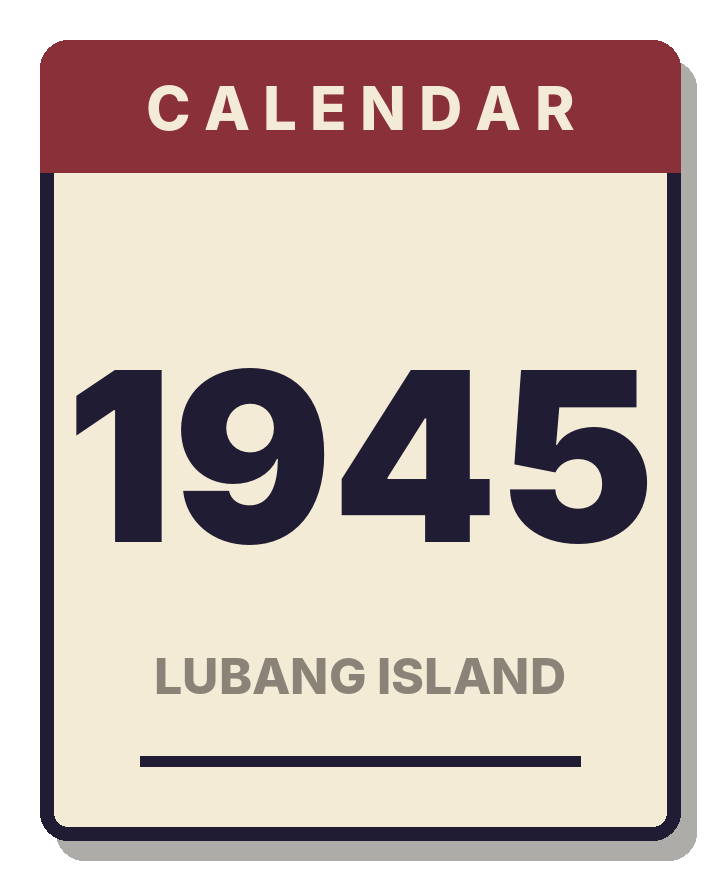
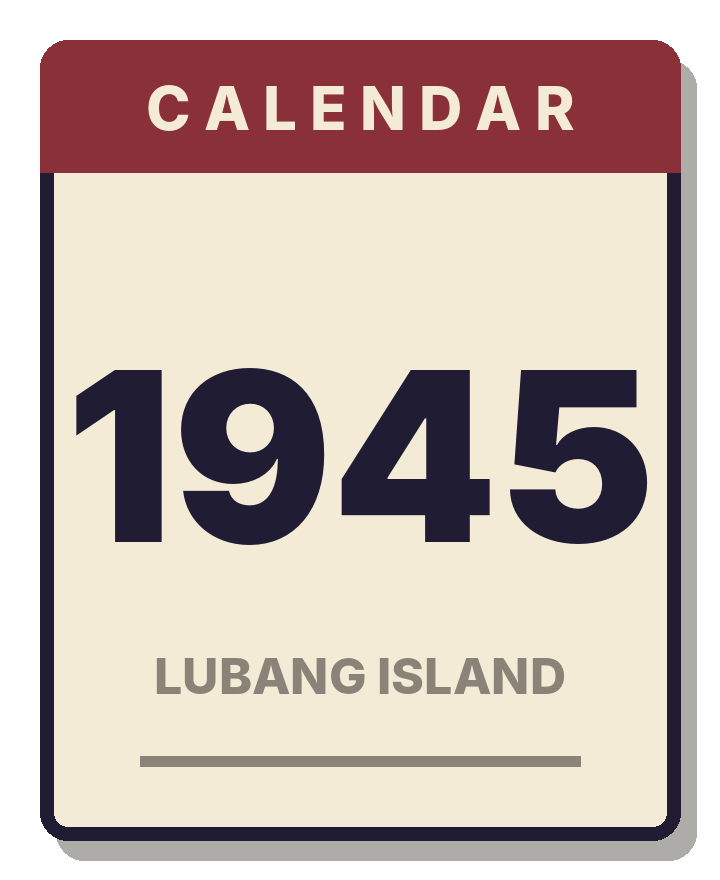
WAVE-RECORD S5 register closed in film.rs (R4: source wins): D6 S02 travelled unclamped (legs stand at k>0.97 while the group slides the final 0.204 m); D7 S03 rifle hidden (shStage has no rifle flag); D8/D9 shore trees unrotated, even=round; D10 palm frond parity odd=leaf, tips opposite colour at 8

Changed region(s): [[0.1833, 0.8591, 0.825, 0.8898]]

diff --git a/src/film.rs b/src/film.rs
@@ -708,7 +708,12 @@ fn add_palm(draws: &mut Vec<StdDraw>, pos: [f32; 3], s: f32, lean: f32, rot_y: f
     for i in 0..7 {
         let a = (i as f32 / 7.0) * std::f32::consts::TAU + 0.4;
         let (sa, ca) = a.sin_cos();
-        let col = if i % 2 == 0 { leaf } else { leaf2 };
+        // Source (shots.ts palm): frond = i%2 ? leaf : leaf2;
+        // tip = i%2 ? leaf2 : leaf (the OPPOSITE colour), tip
+        // sphere 8x5. Port had parity inverted, the tip sharing
+        // the frond colour at 10x6 (D10).
+        let col = if i % 2 == 1 { leaf } else { leaf2 };
+        let tip_col = if i % 2 == 1 { leaf2 } else { leaf };
         let frond_model = math::mul(
             &math::mul(&base, &t3(sa * 1.0, top_y + 0.1 - (i % 3) as f32 * 0.07, ca * 1.0)),
             &math::mul(&math::rotate_y(a), &math::scale(0.17, 0.05, 1.2)),
@@ -718,7 +723,7 @@ fn add_palm(draws: &mut Vec<StdDraw>, pos: [f32; 3], s: f32, lean: f32, rot_y: f
             &math::mul(&base, &t3(sa * 1.85, top_y - 0.28 - (i % 3) as f32 * 0.06, ca * 1.85)),
             &math::mul(&math::euler_xyz(ca * 0.5, a, -sa * 0.5), &math::scale(0.13, 0.04, 0.8)),
         );
-        add(draws, sphere_geo(1.0, 10, 6, col), tip_model, sm(0.9, 0.0), true, false);
+        add(draws, sphere_geo(1.0, 8, 5, tip_col), tip_model, sm(0.9, 0.0), true, false);
     }
     let nut = hex_lin("#6B4A2E");
     for &(nx, nz) in [(0.14f32, 0.0f32), (-0.12, 0.1), (0.0, -0.14)].iter() {
@@ -796,7 +801,7 @@ fn add_clouds(f: &mut FrameSpec, list: &[([f32; 3], f32)], eye: [f32; 3], target
             geo: g,
             model: math::identity(),
             tex: TexSrc::S(TEX_CLOUD),
-            tint: [1.0, 1.0, 1.0],
+            tint: hex_lin("#EFF4EA"), // D17: the source cloud sprite material colour (world.ts clouds); port rendered untinted
             opacity: 1.0,
             alpha_test: 0.0,
             depth_write: false,
@@ -958,7 +963,7 @@ pub(crate) fn build_sh(f: &mut FrameSpec) {
         (0.0, 13.0, 1.8), (-4.0, 11.0, 1.3), (4.5, 12.0, 1.35),
     ];
     for (i, &(x, z, s)) in trees.iter().enumerate() {
-        add_tree(&mut f.std, [x, 0.0, z], i as f32 * 1.7, s, "#3E7A34", i % 2 == 1, false);
+        add_tree(&mut f.std, [x, 0.0, z], 0.0, s, "#3E7A34", i % 2 == 0, false); // D8/D9: shore loop sets NO rotation and even i = round (shots.ts set builder); i*1.7 rotation + odd-round were the JG ring's
     }
     add_palm(&mut f.std, [-6.2, 0.0, 4.5], 1.0, 0.18, 0.0);
     add_palm(&mut f.std, [6.8, 0.0, 5.5], 0.92, -0.14, 0.0);
@@ -991,29 +996,29 @@ fn shelf_unit(f: &mut FrameSpec, w: f32, h: f32, seed: f64, model: Mat4) {
     let put = |f: &mut FrameSpec, geo: Geo, local: Mat4| {
         add(&mut f.std, geo, math::mul(&model, &local), sm(0.85, 0.0), true, true);
     };
-    put(f, box_geo(0.06, h, 0.34, frame), t3(-(w / 2.0 - 0.03), h / 2.0, 0.0));
-    put(f, box_geo(0.06, h, 0.34, frame), t3(w / 2.0 - 0.03, h / 2.0, 0.0));
+    put(f, box_geo(0.06, h, 0.34, frame), t3(-(w / 2.0), h / 2.0, 0.0));
+    put(f, box_geo(0.06, h, 0.34, frame), t3(w / 2.0, h / 2.0, 0.0));
     put(f, box_geo(w, 0.06, 0.34, frame), t3(0.0, h - 0.03, 0.0));
-    put(f, box_geo(w, 0.06, 0.34, frame), t3(0.0, 0.03, 0.0));
+    put(f, box_geo(w, 0.06, 0.3, frame), t3(0.0, 0.03, 0.0));
     let cols = ["#7A4A3A", "#4A5A6A", "#6A6248", "#54455E", "#77603A", "#3F5A50", "#83584A", "#5E5142"];
     for r in 0..4u32 {
         let by = 0.12 + r as f32 * 0.58;
-        put(f, box_geo(w - 0.12, 0.04, 0.3, frame), t3(0.0, by, 0.0));
+        put(f, box_geo(w, 0.05, 0.32, frame), t3(0.0, by, 0.0));
         let mut x = -w / 2.0 + 0.12;
         let mut i = 0u32;
-        while x < w / 2.0 - 0.14 {
+        while x < w / 2.0 - 0.16 {
             let bw = 0.055 + rnd(seed * 31.0 + r as f64 * 17.0 + i as f64) as f32 * 0.05;
-            if rnd(seed * 91.0 + r as f64 * 13.0 + i as f64) <= 0.86 {
+            if rnd(seed * 91.0 + r as f64 * 13.0 + i as f64) > 0.14 {
                 let bh = 0.34 + rnd(seed * 47.0 + r as f64 * 7.0 + i as f64 * 3.0) as f32 * 0.13;
                 let col = cols[((i + r * 3 + seed as u32) % 8) as usize];
                 let tilt = rnd(i as f64 * 7.0 + r as f64 + seed) > 0.93;
-                let mut local = t3(x + bw / 2.0, by + 0.02 + bh / 2.0, 0.02);
+                let mut local = t3(x + bw / 2.0, by + 0.03 + bh / 2.0, 0.02);
                 if tilt {
                     local = math::mul(&local, &math::rotate_z(0.1));
                 }
                 add(&mut f.std, box_geo(bw, bh, 0.2, hex_lin(col)), math::mul(&model, &local), sm(0.85, 0.0), true, true);
             }
-            x += bw + 0.005;
+            x += bw + 0.012;
             i += 1;
         }
     }
@@ -1401,8 +1406,10 @@ fn s02(data: &FilmData, t: f64, lt: f64, d: f64) -> FrameSpec {
     f.post.aperture = 0.0007;
     build_sh(&mut f);
     let k = cam_k(lt, d, 0.03);
-    let kk = if k > 0.97 { 0.97 } else { k };
-    let travelled = kk * 6.8;
+    // Source: travelled = k * 6.8 UNCLAMPED (shots.ts:333) — in
+    // the final 3% the legs stand (k > 0.97) while the group
+    // still slides 0.204 m with planted feet. Staged truth (D6).
+    let travelled = k * 6.8;
     let ph = walk_phase(travelled, 0.62);
     let bob = walk_bob(ph, 5.0);
     let legs = if k > 0.97 { Legs::Stand } else { Legs::Walk };
@@ -1457,7 +1464,7 @@ fn s03(data: &FilmData, t: f64, lt: f64, d: f64) -> FrameSpec {
     onoda.arm_r = (5.0, 3.0);
     onoda.arm_l = (5.0, 3.0);
     onoda.blink = blink_of(3.0, t, &[w_never]);
-    char(&mut f, SH_ONODA, [1.0, 0.0, 0.75], onoda, TINT_NOON, true);
+    char(&mut f, SH_ONODA, [1.0, 0.0, 0.75], onoda, TINT_NOON, false); // D7: S03 shStage carries no rifle flag (shots.ts S03) — the rifle is hidden this shot
     let mut ca = fs();
     ca.arm_r = (5.0, 3.0);
     ca.arm_l = (5.0, 3.0);
@@ -1814,7 +1821,7 @@ fn s10(data: &FilmData, t: f64, lt: f64, d: f64) -> FrameSpec {
     let ph = walk_phase(wk * 0.55, 0.58);
     tani.phase = ph as f32;
     tani.bob = walk_bob(ph, 3.0) as f32;
-    tani.legs = if wk >= 1.0 { Legs::Stand } else { Legs::Walk };
+    tani.legs = if wk > 0.0 && wk < 1.0 { Legs::Walk } else { Legs::Stand }; // D12: source stands until wk > 0 (shots.ts S10)
     tani.arm_r = (pose_track(&[key(0.0, 42.0), keym(w_flew - st0, 17.0, 0.5)], lt) as f32, -28.0);
     tani.arm_l = (14.0, 8.0);
     if t >= w_flew {
@@ -1880,6 +1887,8 @@ fn s11(data: &FilmData, t: f64, lt: f64, d: f64) -> FrameSpec {
         onoda.bob = walk_bob(ph, 4.0) as f32;
         onoda.legs = if wk >= 1.0 { Legs::Stand } else { Legs::Walk };
         onoda.mood = if t >= w_order { Mood::Awe } else { Mood::Determined };
+        onoda.arm_r = (16.0, -6.0); // D15: source S11 walk-in arms
+        onoda.arm_l = (10.0, 5.0);
         onoda.lean = 1.0;
         onoda.blink = Blinker { seed: 3.0 }.at(t) as f32;
         char(&mut f, ONODA, [lerp(-2.65, -0.15, wk) as f32, 0.0, lerp(-0.45, -0.95, wk) as f32], onoda, tint_dusk(), true);
@@ -1890,7 +1899,10 @@ fn s11(data: &FilmData, t: f64, lt: f64, d: f64) -> FrameSpec {
             pose_track(&[key(0.0, 0.0), keym(drop_t - st0 + 0.55, 3.0, 0.45)], lt) as f32,
         );
         onoda.mood = if t >= drop_t + 0.85 { Mood::Relieved } else { Mood::Awe };
-        onoda.lean = pose_track(&[key(0.0, 1.0), keym(drop_t - st0 + 0.55, 0.0, 0.45)], lt) as f32;
+        onoda.arm_l = (8.0, 4.0); // D15: source Onoda2 armL
+        // D14: source lean is a STEP at dropT + 0.55, not the
+        // poseTrack ease the port used.
+        onoda.lean = if t >= drop_t + 0.55 { 0.0 } else { 1.0 };
         onoda.blink = Blinker { seed: 3.0 }.at(t) as f32;
         char(&mut f, ONODA2, [-0.15, 0.0, -0.95], onoda, tint_dusk(), false);
     }

diff --git a/film/gen_assets.py b/film/gen_assets.py
@@ -187,7 +187,7 @@ def calendar_plate(year: str):
     d.text((ox, oy - 166 * S), "C A L E N D A R", font=ImageFont.truetype(XBD, int(30 * S)), fill=(244, 235, 214, 255), anchor="mm")
     d.text((ox, oy + 8 * S), year, font=ImageFont.truetype(BLACK, int(118 * S)), fill=INK, anchor="mm")
     d.text((ox, oy + 118 * S), "LUBANG ISLAND", font=ImageFont.truetype(XBD, int(25 * S)), fill=(139, 131, 120, 255), anchor="mm")
-    d.rectangle([ox - 110 * S, oy + 158 * S, ox + 110 * S, oy + 163 * S], fill=INK)
+    d.rectangle([ox - 110 * S, oy + 158 * S, ox + 110 * S, oy + 163 * S], fill=(139, 131, 120, 255))  # D19: source rule colour #8B8378 (drawCalendar), not INK
     return img
 
 
